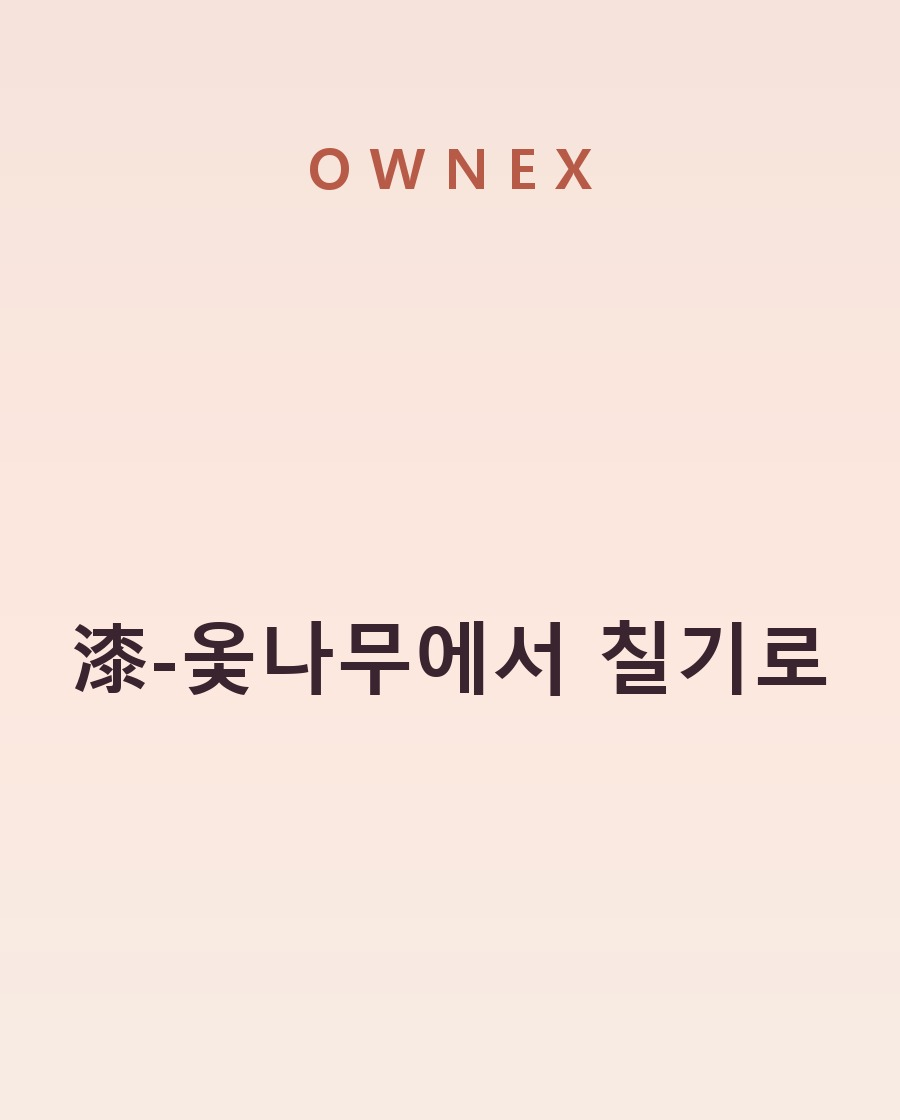
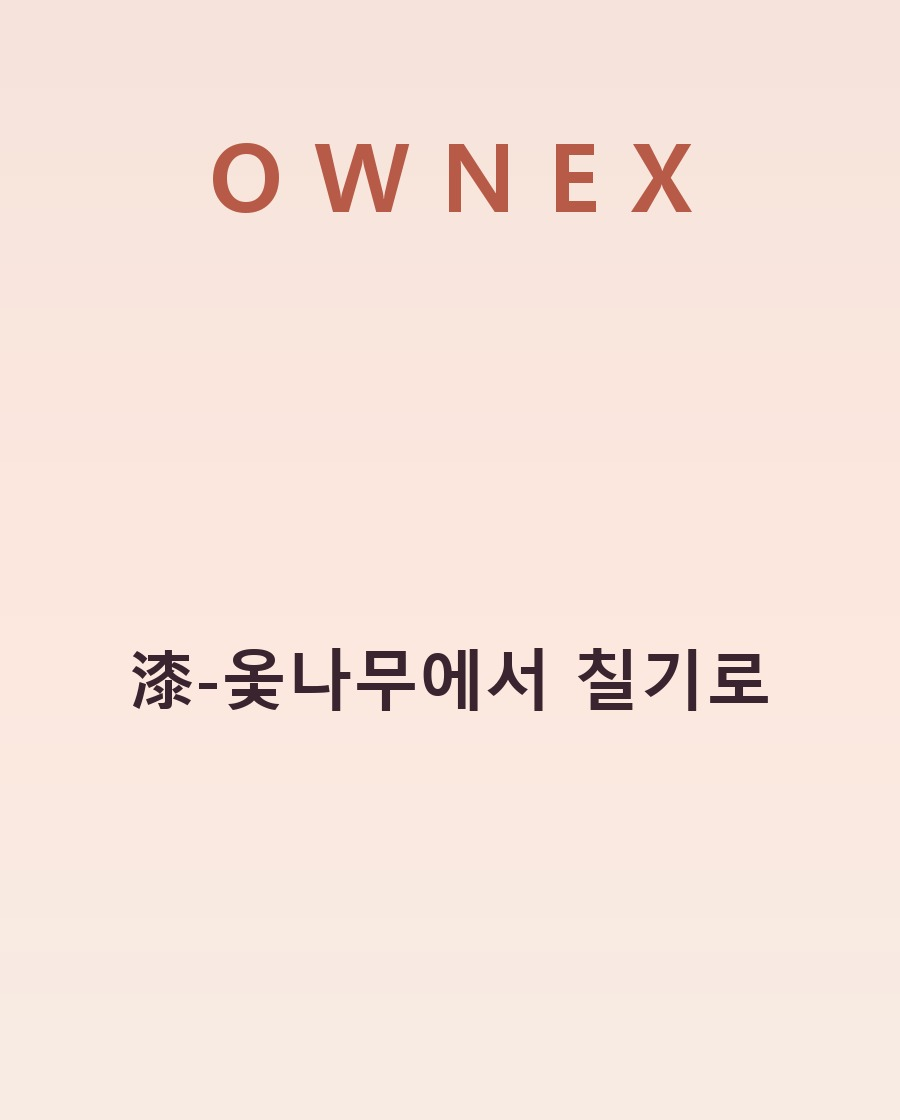
Scale OWNEX up 70 percent and the show title down to 85 percent.

diff --git a/index.html b/index.html
@@ -35,7 +35,7 @@
   <link rel="preconnect" href="https://fonts.googleapis.com" />
   <link rel="preconnect" href="https://fonts.gstatic.com" crossorigin />
   <link href="https://fonts.googleapis.com/css2?family=Cormorant+Garamond:ital,wght@0,500;0,600;1,400&family=Great+Vibes&family=Noto+Sans+KR:wght@400;500;600&family=Noto+Serif+KR:wght@500;600;700&display=swap" rel="stylesheet" />
-  <link rel="stylesheet" href="styles.css?v=fix72" />
+  <link rel="stylesheet" href="styles.css?v=fix73" />
   <style>
     body { margin: 0; min-height: 100vh; background: var(--bg, #351e28); color: var(--ink, #f6efe6); font-family: "Noto Sans KR", "Apple SD Gothic Neo", "Malgun Gothic", sans-serif; }
     #front-row:not([hidden]) {
@@ -1124,7 +1124,7 @@
       }
     })();
   </script>
-  <script src="data.js?v=fix72"></script>
-  <script src="app.js?v=fix72"></script>
+  <script src="data.js?v=fix73"></script>
+  <script src="app.js?v=fix73"></script>
 </body>
 </html>

diff --git a/styles.css b/styles.css
@@ -882,15 +882,15 @@ body.open .gcal-icon {
 .name-art.designed i,
 .poster.designed i {
   font-style: normal;
-  font-size: 1.35rem;
-  letter-spacing: 0.28em;
+  font-size: 2.3rem;
+  letter-spacing: 0.26em;
   color: var(--paper-hover);
 }
 
 .name-art.designed b,
 .poster.designed b {
   font-family: "Noto Serif KR", "Cormorant Garamond", serif;
-  font-size: clamp(1.35rem, 4.6vw, 1.85rem);
+  font-size: clamp(1.15rem, 3.9vw, 1.57rem);
   font-weight: 600;
   line-height: 1.3;
   letter-spacing: -0.03em;
@@ -902,7 +902,7 @@ body.open .gcal-icon {
 }
 
 .poster.designed b {
-  font-size: clamp(1.85rem, 4.6vw, 2.7rem);
+  font-size: clamp(1.57rem, 3.9vw, 2.3rem);
 }
 
 .name-art.designed-img,

diff --git a/app.js b/app.js
@@ -1984,7 +1984,7 @@
     });
   }
 
-  const ASSET_VER = "20260915b";
+  const ASSET_VER = "20260915c";
 
   function assetUrl(src) {
     const value = String(src || "");

diff --git a/daily/util/web_posters.py b/daily/util/web_posters.py
@@ -111,20 +111,20 @@ def _designed_canvas(title: str) -> Image.Image:
         t = y / max(height - 1, 1)
         color = _blend(top, mid, t / 0.55) if t < 0.55 else _blend(mid, bottom, (t - 0.55) / 0.45)
         draw.line((0, y, width, y), fill=color)
-    brand = _font(56, bold=True)
+    brand = _font(95, bold=True)
     label = "OWNEX"
-    gap = 18
+    gap = 31
     brand_w = sum(draw.textlength(ch, font=brand) for ch in label) + gap * (len(label) - 1)
     x = (width - brand_w) / 2
     for ch in label:
-        draw.text((x, 128), ch, font=brand, fill=mark)
+        draw.text((x, 108), ch, font=brand, fill=mark)
         x += draw.textlength(ch, font=brand) + gap
     clean = _designed_title(title)
-    max_w, max_h = width - 120, 560
-    title_font = _font(46, bold=True)
+    max_w, max_h = width - 120, 520
+    title_font = _font(39, bold=True)
     lines = _wrap(draw, clean, title_font, max_w, 6)
-    line_h = 56
-    for size in range(78, 39, -3):
+    line_h = 48
+    for size in range(66, 32, -3):
         trial_font = _font(size, bold=True)
         trial_lines = _wrap(draw, clean, trial_font, max_w, 20)
         trial_h = int(size * 1.2)
@@ -137,7 +137,7 @@ def _designed_canvas(title: str) -> Image.Image:
             line_h = trial_h
             break
     block_h = len(lines) * line_h
-    y = 220 + ((height - 260) - block_h) / 2
+    y = 268 + ((height - 310) - block_h) / 2
     for line in lines:
         draw.text(((width - draw.textlength(line, font=title_font)) / 2, y), line, font=title_font, fill=ink)
         y += line_h
